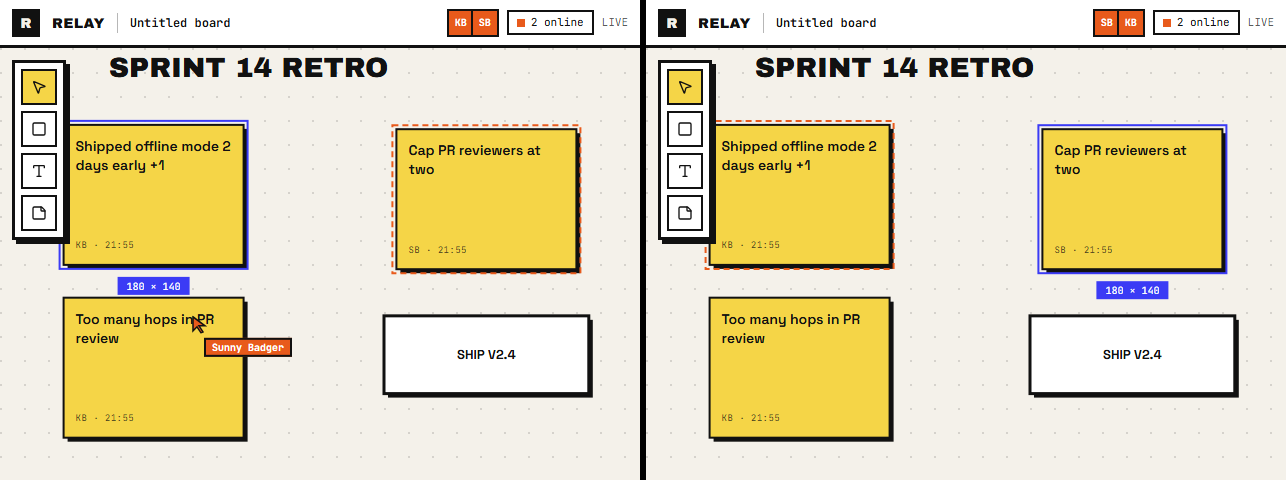
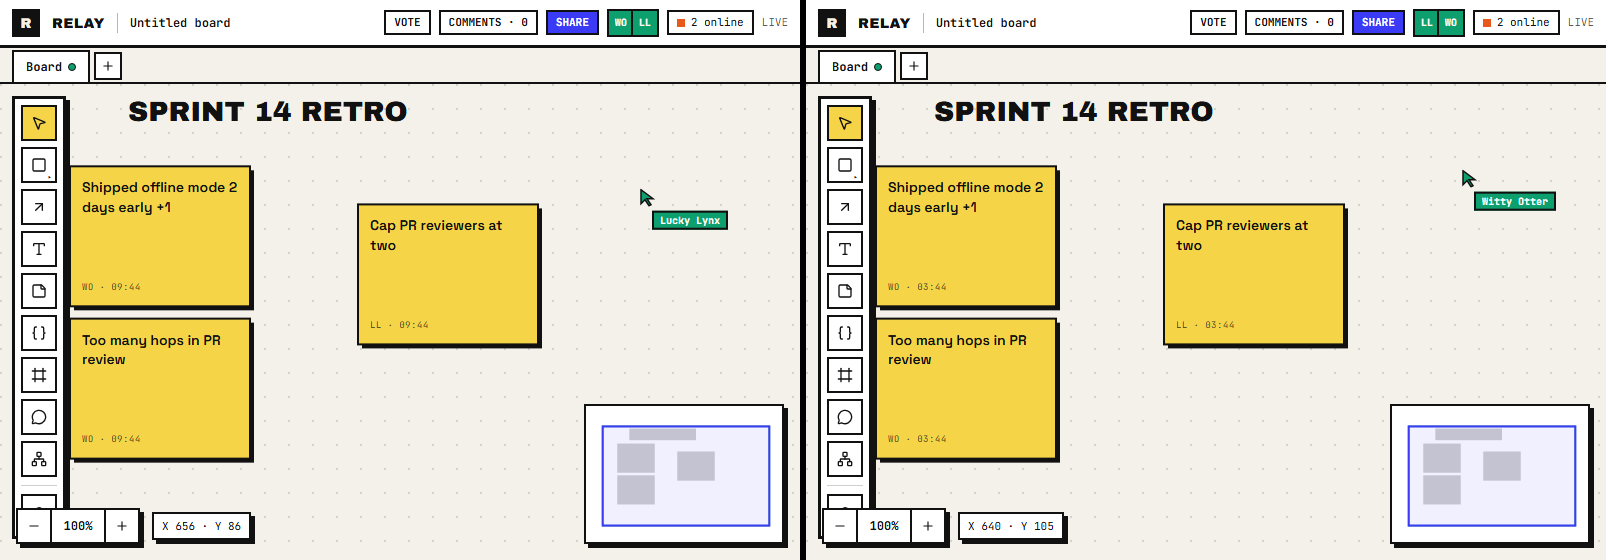
docs: new demo GIF touring board, sheet, graph and calendar; dialogs scroll on short screens
- scripts/capture.mjs records two users (Madrid and Havana) in one room:
  - a retro board with live cursors;
  - a sheet where one user's edit updates the other's =SUM;
  - a graph from an edge list with a local shortest-path highlight;
  - a weekly standup that Havana sees at 03:00 and answers "Going".
- The windows are now 800x560, so the properties bar no longer covers the
  toolbar. Steps avoid the minimap and the zoom controls.
- scripts/lib/actor.mjs has new helpers for pages, sheet cells, graphs,
  algorithms, calendar drags and RSVP.
- The demo bot no longer drops a sticky on the minimap.
- Dialog: a dialog taller than the window scrolls inside. The event editor
  used to overflow a short screen, which left RSVP and Save unreachable.
- The landing page copy and the READMEs (EN + ES) describe the tour, and the
  READMEs document `npm run demo:capture`.

diff --git a/apps/web/app/page.tsx b/apps/web/app/page.tsx
@@ -13,8 +13,8 @@ export default function Home() {
         </p>
         <ul className="mt-5 grid gap-2 font-mono text-xs leading-relaxed">
           <li>▸ Stickies, shapes, connectors and frames — edited together, live.</li>
-          <li>▸ Board and spreadsheet pages per room, pinned comments, timed dot voting.</li>
-          <li>▸ Right-click anything, copy between boards, press ? for every shortcut.</li>
+          <li>▸ Board, spreadsheet and calendar pages per room; graphs with live algorithms.</li>
+          <li>▸ Pinned comments, timed dot voting, right-click menus, ? for board shortcuts.</li>
           <li>▸ No accounts: share an edit link or a read-only view link.</li>
         </ul>
         <div className="mt-8 flex flex-wrap items-start gap-3">

diff --git a/apps/web/src/ui/Dialog.tsx b/apps/web/src/ui/Dialog.tsx
@@ -80,7 +80,8 @@ export function Dialog({
             first.focus();
           }
         }}
-        className={`w-full ${wide ? 'max-w-2xl' : 'max-w-md'} border-[3px] border-ink bg-white p-5 shadow-hard`}
+        // A dialog taller than the window (the event editor on a short screen) scrolls inside.
+        className={`max-h-[calc(100dvh-2rem)] w-full overflow-y-auto ${wide ? 'max-w-2xl' : 'max-w-md'} border-[3px] border-ink bg-white p-5 shadow-hard`}
       >
         <h2 className="font-display text-lg uppercase">{title}</h2>
         <div className="mt-3">{children}</div>

diff --git a/README.es.md b/README.es.md
@@ -12,11 +12,14 @@ entre todos los miembros de una sala. Sin registro: abres el enlace y ya estás 
 
 [Read in English](README.md)
 
-![Dos usuarios anónimos editando el mismo tablero a la vez](docs/demo.gif)
+![Dos usuarios anónimos recorriendo una sala: un tablero de retro, una hoja de cálculo, un grafo y un calendario](docs/demo.gif)
 
-*Dos navegadores independientes, dos usuarios anónimos, un solo tablero. Cada fotograma del
-GIF sale de la aplicación real, controlada por [`scripts/capture.mjs`](scripts/capture.mjs). La
-grabación es del primer hito; más abajo están las funciones posteriores.*
+*Dos navegadores independientes, dos usuarios anónimos (uno en Madrid y otro en La Habana), una
+sola sala. Escriben una retro en el tablero con cursores en vivo; crean una hoja donde lo que
+edita uno actualiza el `=SUM` del otro; generan un grafo desde una lista de aristas y resaltan
+un camino más corto (solo lo ve quien lo ejecutó); y arrastran al calendario un standup semanal
+a las 09:00, que en La Habana aparece a las 03:00 y se responde con "Going" en vivo. Cada
+fotograma sale de la aplicación real, controlada por [`scripts/capture.mjs`](scripts/capture.mjs).*
 
 ## Qué hace
 
@@ -150,6 +153,7 @@ ventana privada. **SHARE** te da un enlace de edición y otro de solo lectura.
 ```bash
 npm run demo:bot -- --role writer              # crea una sala y escribe una retro
 npm run demo:bot -- --role mover <url-tablero> # se une, mueve formas y añade "+1"
+npm run demo:capture                           # vuelve a grabar docs/demo.gif (necesita ffmpeg y npm run dev)
 ```
 
 O con Docker: `docker compose up`.

diff --git a/README.md b/README.md
@@ -12,11 +12,14 @@ No sign-up: open a link and you are in.
 
 [Leer en español](README.es.md)
 
-![Two anonymous users editing the same board at the same time](docs/demo.gif)
+![Two anonymous users touring one room: a retro board, a spreadsheet, a graph and a calendar](docs/demo.gif)
 
-*Two independent browsers, two anonymous users, one board. Every frame of the GIF comes from
-the real app, driven by [`scripts/capture.mjs`](scripts/capture.mjs). The recording dates
-from the first milestone, and later features are listed below.*
+*Two independent browsers, two anonymous users (one in Madrid, one in Havana), one room. They
+write a retro board with live cursors; add a sheet where one user's edit updates the other's
+`=SUM`; generate a graph from an edge list and highlight a shortest path (visible only to
+whoever ran it); then drag a weekly 09:00 standup onto a calendar, which Havana sees at 03:00
+and answers "Going" live. Every frame comes from the real app, driven by
+[`scripts/capture.mjs`](scripts/capture.mjs).*
 
 ## What it does
 
@@ -170,6 +173,7 @@ private window. **SHARE** gives you an edit link and a read-only link.
 ```bash
 npm run demo:bot -- --role writer            # creates a room and writes a retro board
 npm run demo:bot -- --role mover <board-url> # joins and moves / +1s shapes
+npm run demo:capture                         # re-records docs/demo.gif (needs ffmpeg and npm run dev)
 ```
 
 Or run it in Docker: `docker compose up`.
